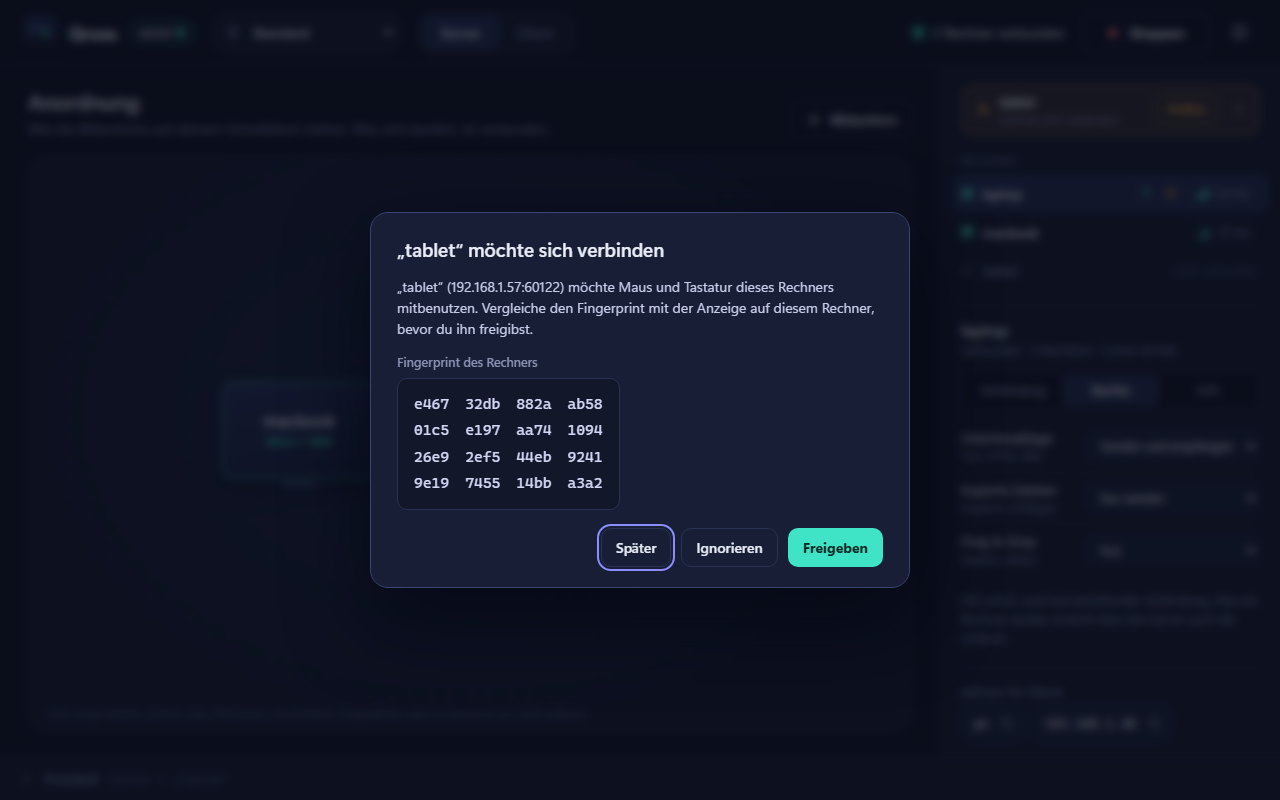
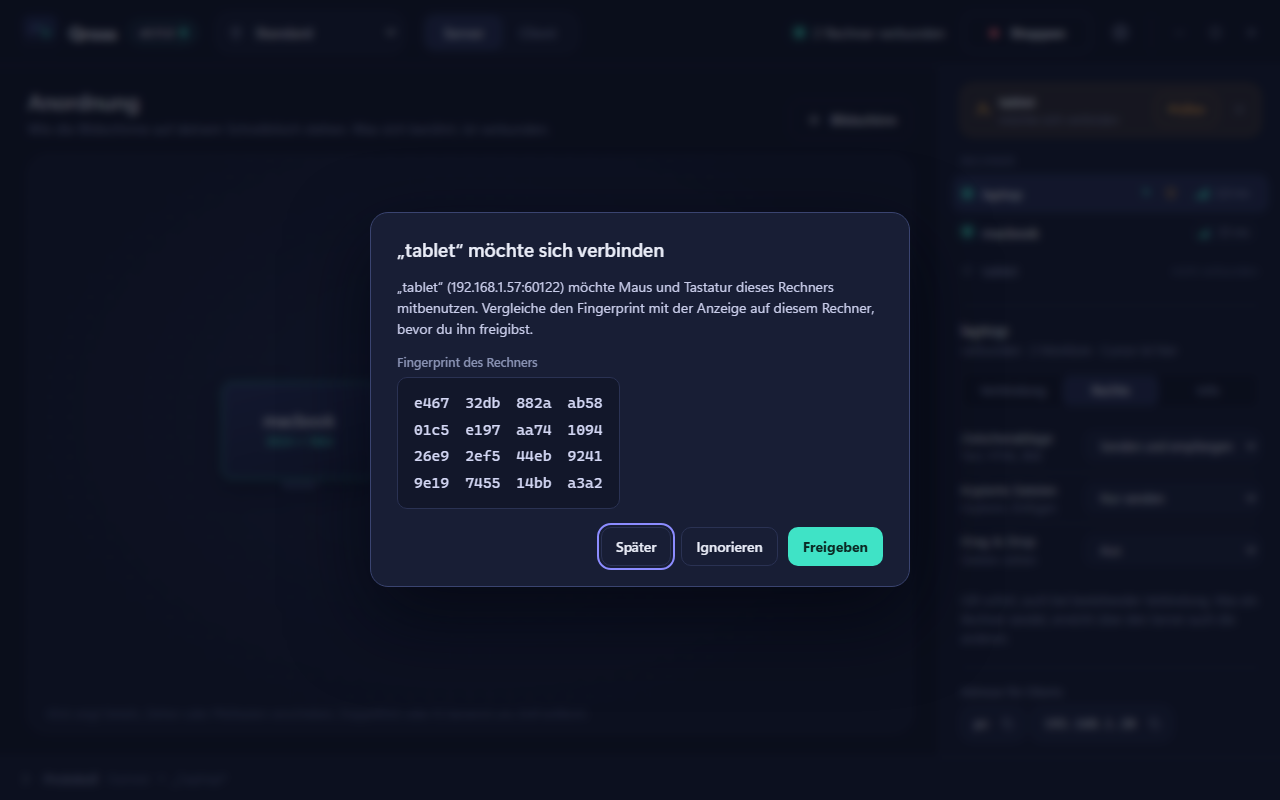
Version 0.11.0

diff --git a/CHANGELOG.md b/CHANGELOG.md
@@ -8,6 +8,36 @@ jedes GitHub-Release übernimmt den Abschnitt seiner Version.
 
 Rubriken: **Neu**, **Verbessert**, **Behoben**, **Wichtig** (z. B. inkompatible Änderungen).
 
+## [0.11.0] - 2026-10-20
+
+### Neu
+
+- **Eigene Titelleiste:** Minimieren, Maximieren und Schließen sitzen jetzt rechts in der Kopfzeile von Qross,
+  im selben Stil wie der Rest der Oberfläche, statt in der Leiste des Systems darüber. An der Kopfzeile lässt
+  sich das Fenster verschieben, ein Doppelklick maximiert es. Unter macOS bleiben die gewohnten Ampelknöpfe,
+  eingebettet in die Kopfzeile.
+
+### Verbessert
+
+- **Windows: Ruhe im Hintergrund:** Liegt Qross im Tray oder ist das Fenster minimiert, ruht die Oberfläche
+  jetzt ganz. Bisher liefen ihre Animationen unsichtbar weiter, solange Server oder Client liefen, und kosteten
+  dauerhaft Rechenzeit: in der Messung rund 10 % eines Prozessorkerns, jetzt unter 0,5 %.
+- **Ruhe hinter Dialogen:** Hinter offenen Einstellungen, Neuigkeiten und Abfragen halten die Animationen der
+  Oberfläche an. Ohne Grafikkarte, etwa in einer VM oder über Remotedesktop, kostete der weichgezeichnete
+  Hintergrund sonst fast einen ganzen Prozessorkern.
+- **Weniger Arbeit bei jedem Wechsel:** Das Tray-Symbol ändert nur noch, was sich wirklich geändert hat, und
+  hält die Verbindung dabei nicht auf. Die Oberfläche baut sich höchstens einmal pro Bild neu auf und gar nicht,
+  solange das Fenster versteckt ist; beim Öffnen zeigt sie gleich den neuesten Stand.
+- **macOS: App Nap nur im Betrieb:** Qross schaltet App Nap nur noch ab, solange Server oder Client laufen.
+  Gestoppt darf macOS wieder sparen, das schont den Akku.
+
+### Behoben
+
+- **Unruhige Kopfzeile ohne Server:** War der Server nicht erreichbar, sprang die Kopfzeile des Clients ständig
+  zwischen „Verbinde …“ und „keine Verbindung“ und verschob dabei ihre Aufteilung. Jetzt steht dort ruhig
+  „Server nicht erreichbar“, der Grund im Tooltip, bis die Verbindung steht; Tray und Client-Ansicht sagen
+  dasselbe.
+
 ## [0.10.0] - 2026-10-19
 
 ### Neu
@@ -443,6 +473,7 @@ Erste Veröffentlichung.
 - Grafische Oberfläche mit Layout-Editor, Freigabe-Dialog und Tray-Symbol.
 - Läuft unter Windows, Linux (X11) und macOS (Apple Silicon).
 
+[0.11.0]: https://github.com/xozy22/qross/compare/v0.10.0...v0.11.0
 [0.10.0]: https://github.com/xozy22/qross/compare/v0.9.0...v0.10.0
 [0.9.0]: https://github.com/xozy22/qross/compare/v0.8.3...v0.9.0
 [0.8.3]: https://github.com/xozy22/qross/compare/v0.8.2...v0.8.3
